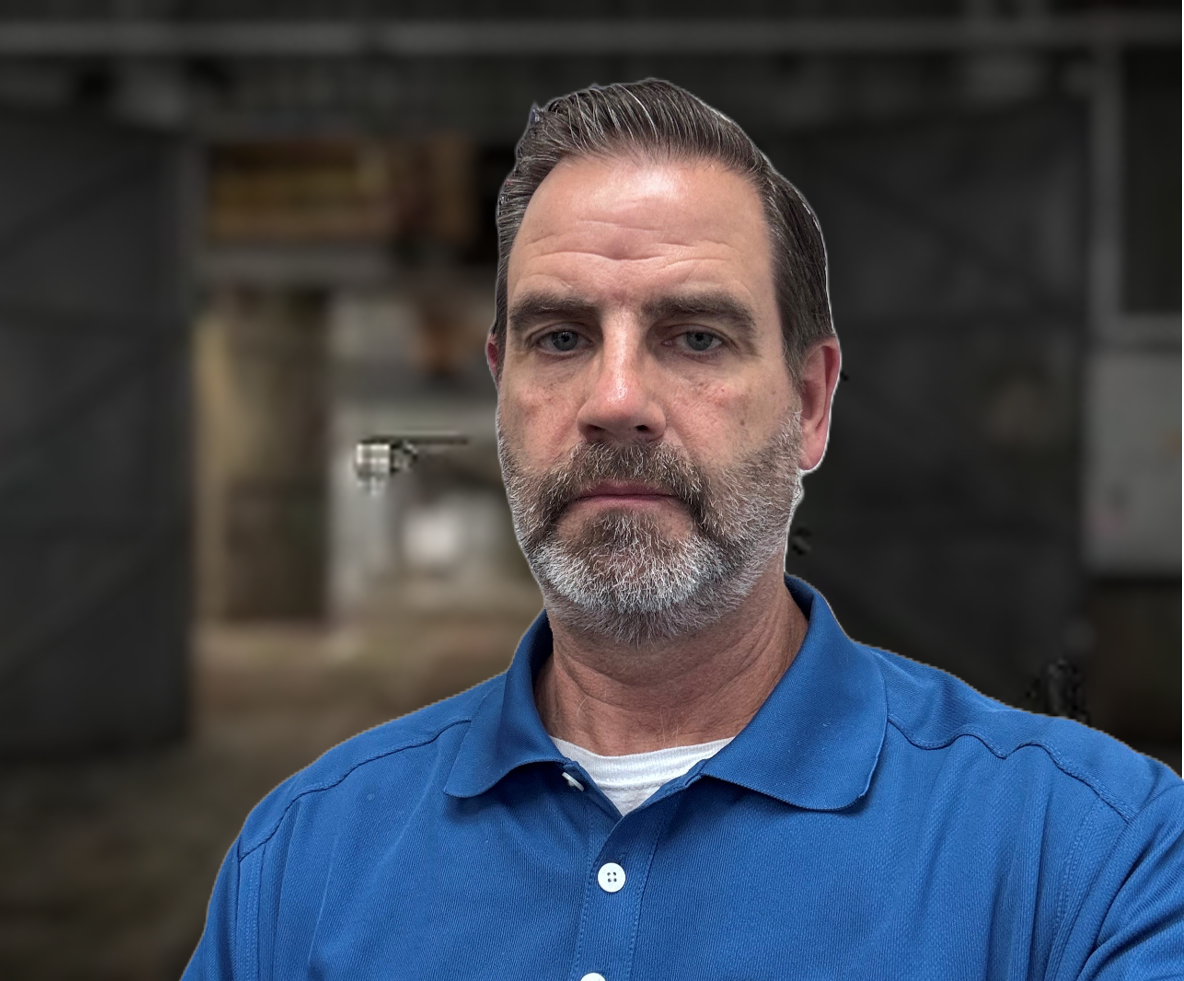
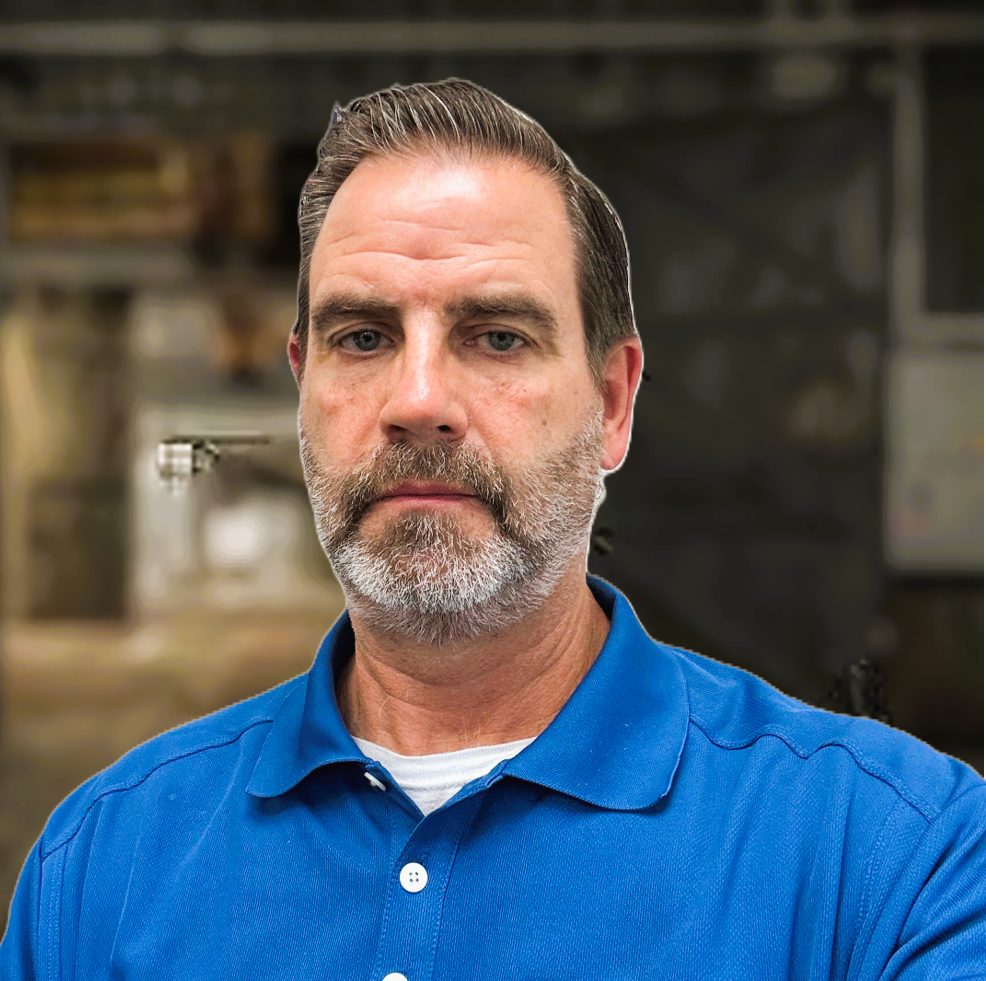
Cindy&Me content and styling

diff --git a/views/project605.html b/views/project605.html
@@ -6,19 +6,55 @@ permalink: /project605/
 
 
 
-     <div class="container">
+    <style>
+      /* Shrink logos on small screens */
+      @media (max-width: 767.98px) {
+        .project-logo {
+          width: 90px !important;
+        }
+
+        /* Remove absolute positioning on small screens */
+        .logo-left,
+        .logo-right {
+          position: static !important;
+          margin: 0.5rem 0;
+        }
+      }
+    </style>
+
+    <div class="container">
       <div class="row jumbotron py-1" style="margin-top: 100px; margin-bottom: 0;">
-       <div class="col-12">
-        <div class="d-flex align-items-center justify-content-start" style="gap: 1rem;">
-         <img alt="Project605 Logo" src="/images/logos/Logo_Project605.png" style="width: 150px; height: auto; margin-bottom: 12px;"/>
-         <h2 class="mb-0" style="margin-left: 10px;">
-          My Workshop and Other Stuff
-         </h2>
+        <div class="col-12">
+          <div class="d-flex flex-column flex-md-row align-items-center justify-content-center text-center position-relative" style="min-height: 100px;">
+
+            <!-- Left Logo -->
+            <div class="logo-left position-absolute" style="left: 1rem;">
+              <img src="/images/logos/project605-logo-outline.png" alt="Project605 Logo" class="project-logo" style="width: 150px; height: auto;" />
+            </div>
+
+            <!-- Center Title -->
+            <div>
+              <h2 class="mb-0" style="font-family: Comfortaa, sans-serif;">
+                My Workshop and Other Stuff
+              </h2>
+            </div>
+
+            <!-- Right Logo -->
+            <div class="logo-right position-absolute" style="right: 1rem;">
+              <img src="/images/logos/project605-logo-solid.png" alt="Project605 Logo" class="project-logo" style="width: 150px; height: auto;" />
+            </div>
+
+          </div>
+
+          <hr class="adventure-hr-bottom my-0" />
         </div>
-        <hr class="adventure-hr-bottom my-0"/>
-       </div>
       </div>
-     </div>
+    </div>
+
+
+
+
+
      <!--MY PROJECTS-->
      <div class="container mt-5">
       <div class="container project-row">
@@ -37,6 +73,7 @@ permalink: /project605/
            <div class="slider-arrow right" data-direction="right" data-target="1">
             &rsaquo;
            </div>
+           
            <div class="thumbnail-track">
             <img alt="cribbage-1" class="project-thumbnail selected" data-full="/images/viewProject605/wood/cribbage-1.JPEG" data-target="1" src="/images/viewProject605/wood/cribbage-1.JPEG"/>
             <img alt="cribbage-4" class="project-thumbnail" data-full="/images/viewProject605/wood/cribbage-4.JPG" data-target="1" src="/images/viewProject605/wood/cribbage-4.JPG"/>
@@ -49,6 +86,12 @@ permalink: /project605/
             <img alt="endtable-2" class="project-thumbnail" data-full="/images/viewProject605/wood/endtable-2.jpeg" data-target="1" src="/images/viewProject605/wood/endtable-2.jpeg"/>
             <img alt="endtable-3" class="project-thumbnail" data-full="/images/viewProject605/wood/endtable-3.jpeg" data-target="1" src="/images/viewProject605/wood/endtable-3.jpeg"/>
             <img alt="ant-trail" class="project-thumbnail" data-full="/images/viewProject605/wood/ant-trail.jpg" data-target="1" src="/images/viewProject605/wood/ant-trail.jpg"/>
+            <img alt="ant-trail" class="project-thumbnail" data-full="/images/viewProject605/wood/IMG_3378.JPEG" data-target="1" src="/images/viewProject605/wood/IMG_3378.JPEG"/>
+            <img alt="ant-trail" class="project-thumbnail" data-full="/images/viewProject605/wood/IMG_3379.JPEG" data-target="1" src="/images/viewProject605/wood/IMG_3379.JPEG"/>
+            <img alt="ant-trail" class="project-thumbnail" data-full="/images/viewProject605/wood/IMG_3380.JPEG" data-target="1" src="/images/viewProject605/wood/IMG_3380.JPEG"/>
+            <img alt="ant-trail" class="project-thumbnail" data-full="/images/viewProject605/wood/IMG_3382.JPEG" data-target="1" src="/images/viewProject605/wood/IMG_3382.JPEG"/>
+            <img alt="ant-trail" class="project-thumbnail" data-full="/images/viewProject605/wood/IMG_3383.JPEG" data-target="1" src="/images/viewProject605/wood/IMG_3383.JPEG"/>
+            
            </div>
           </div>
           <div class="project-description">
@@ -72,6 +115,7 @@ permalink: /project605/
            <div class="slider-arrow right" data-direction="right" data-target="2">
             &rsaquo;
            </div>
+           
            <div class="thumbnail-track">
             <img alt="Leather 1" class="project-thumbnail selected" data-full="/images/viewProject605/leather/leather-1.JPEG" data-target="2" src="/images/viewProject605/leather/leather-1.JPEG"/>
             <img alt="Leather 2" class="project-thumbnail" data-full="/images/viewProject605/leather/leather-2.JPEG" data-target="2" src="/images/viewProject605/leather/leather-2.JPEG"/>
@@ -80,6 +124,7 @@ permalink: /project605/
             <img alt="Leather 5" class="project-thumbnail" data-full="/images/viewProject605/leather/leather-5.JPEG" data-target="2" src="/images/viewProject605/leather/leather-5.JPEG"/>
             <img alt="Leather 6" class="project-thumbnail" data-full="/images/viewProject605/leather/leather-6.JPEG" data-target="2" src="/images/viewProject605/leather/leather-6.JPEG"/>
            </div>
+          
           </div>
           <div class="project-description">
            I got into working with leather a few years ago after seeing some work that my nephews did. I started with a couple of easy key chain 
@@ -98,9 +143,11 @@ permalink: /project605/
            <div class="slider-arrow left" data-direction="left" data-target="3">
             &lsaquo;
            </div>
+           
            <div class="slider-arrow right" data-direction="right" data-target="3">
             &rsaquo;
            </div>
+           
            <div class="thumbnail-track">
             <img alt="Garage 1" class="project-thumbnail selected" data-full="/images/viewProject605/garage/garage-1.jpg" data-target="3" src="/images/viewProject605/garage/garage-1.jpg"/>
             <img alt="Garage 2" class="project-thumbnail" data-full="/images/viewProject605/garage/garage-2.JPEG" data-target="3" src="/images/viewProject605/garage/garage-2.JPEG"/>
@@ -108,7 +155,21 @@ permalink: /project605/
             <img alt="Garage 4" class="project-thumbnail" data-full="/images/viewProject605/garage/garage-4.JPEG" data-target="3" src="/images/viewProject605/garage/garage-4.JPEG"/>
             <img alt="Garage 5" class="project-thumbnail" data-full="/images/viewProject605/garage/garage-5.JPEG" data-target="3" src="/images/viewProject605/garage/garage-5.JPEG"/>
             <img alt="Garage 6" class="project-thumbnail" data-full="/images/viewProject605/garage/garage-6.JPEG" data-target="3" src="/images/viewProject605/garage/garage-6.JPEG"/>
-           </div>
+            <img alt="3384" class="project-thumbnail" data-full="/images/viewProject605/garage/IMG_3384.JPEG" data-target="3" src="/images/viewProject605/garage/IMG_3384.JPEG"/> 
+            <img alt="3385" class="project-thumbnail" data-full="/images/viewProject605/garage/IMG_3385.JPEG" data-target="3" src="/images/viewProject605/garage/IMG_3385.JPEG"/>
+            <img alt="3386" class="project-thumbnail" data-full="/images/viewProject605/garage/IMG_3386.JPEG" data-target="3" src="/images/viewProject605/garage/IMG_3386.JPEG"/>
+            <img alt="3387" class="project-thumbnail" data-full="/images/viewProject605/garage/IMG_3387.JPEG" data-target="3" src="/images/viewProject605/garage/IMG_3387.JPEG"/>
+            <img alt="3388" class="project-thumbnail" data-full="/images/viewProject605/garage/IMG_3388.JPEG" data-target="3" src="/images/viewProject605/garage/IMG_3388.JPEG"/>
+            <img alt="3389" class="project-thumbnail" data-full="/images/viewProject605/garage/IMG_3389.JPEG" data-target="3" src="/images/viewProject605/garage/IMG_3389.JPEG"/>
+            <img alt="3390" class="project-thumbnail" data-full="/images/viewProject605/garage/IMG_3390.JPEG" data-target="3" src="/images/viewProject605/garage/IMG_3390.JPEG"/>
+            <img alt="3391" class="project-thumbnail" data-full="/images/viewProject605/garage/IMG_3391.JPEG" data-target="3" src="/images/viewProject605/garage/IMG_3391.JPEG"/>
+            <img alt="3392" class="project-thumbnail" data-full="/images/viewProject605/garage/IMG_3392.JPEG" data-target="3" src="/images/viewProject605/garage/IMG_3392.JPEG"/>
+            <img alt="3393" class="project-thumbnail" data-full="/images/viewProject605/garage/IMG_3393.JPEG" data-target="3" src="/images/viewProject605/garage/IMG_3393.JPEG"/>
+            <img alt="3394" class="project-thumbnail" data-full="/images/viewProject605/garage/IMG_3394.JPEG" data-target="3" src="/images/viewProject605/garage/IMG_3394.JPEG"/>
+            <img alt="3395" class="project-thumbnail" data-full="/images/viewProject605/garage/IMG_3395.JPEG" data-target="3" src="/images/viewProject605/garage/IMG_3395.JPEG"/>
+            <img alt="3396" class="project-thumbnail" data-full="/images/viewProject605/garage/IMG_3395.JPEG" data-target="3" src="/images/viewProject605/garage/IMG_3396.JPEG"/>          
+          </div>
+          
           </div>
           <div class="project-description">
            This is my garage. It is a work in progess and will probably never be completely done. I add things or revise the layout often when 

diff --git a/views/cindyandme.html b/views/cindyandme.html
@@ -5,33 +5,28 @@ permalink: /cindyandme/
 ---
 
 <div class="container">
-  <div class="row jumbotron py-2" style="margin-top: 100px; margin-bottom: 0;">
+  <div class="row jumbotron" style="padding: 0.25rem 0; margin-top: 70px; margin-bottom: 0;">
     <div class="col-12">
-      <span>
-      <h2 class="mb-2">Our Adventures, Cindy & Me
-           <img src="/images/favicons/moose.png" alt="Moose Icon"
-           style="height: 40px; width: 40px; vertical-align:baseline; margin: 0 10px;">
-      </h2>
-      </span>
-      <div class="d-block" style="padding-right: 5rem;">
-        <span style="font-size: 1rem;">
 
+      <div class="position-relative" style="min-height: 60px;">
+        <img src="/images/favicons/moose.png" alt="Moose Icon" class="moose-overlap">
+        <h2 class="mb-0" style="position: relative; z-index: 2; line-height: 1.2;">
+          Our Adventures, Cindy & Me
+        </h2>
+      </div>
+
+      <div class="d-block mt-0 mb-0" style="padding-right: 5rem;">
+        <span style="font-size: 1rem;">
           <a>Cindy & John</a> |
           <a href="mailto:project605@jchleborad.com" class="black-link">Send us an email!</a>
-
-<!--      <a href="tel:+16236965646" class="black-link">John – (623) 696-5646</a> |
-          <a href="mailto:jchleborad@gmail.com" class="black-link">jchleborad@gmail.com</a> &nbsp;|&nbsp;
-
-
-          <a href="tel:+16236965645" class="black-link">Cindy – (623) 696-5645</a> |
-          <a href="mailto:cchleborad@icloud.com" class="black-link">cchleborad@icloud.com</a>
         </span>
       </div>
--->
+
       <hr class="adventure-hr-bottom my-1">
     </div>
   </div>
 </div>
+
 
 <section id="johnandcindy" class="pt-4 pb-4">
   <div class="container-custom rounded p-4 text-center mx-auto">
@@ -74,7 +69,7 @@ permalink: /cindyandme/
 
   <p class="card-text">
     {{ thumb.title }}<br>
-      {% if post.title == "Wedding Day!" or post.title == "They're Engaged!" %}
+      {% if post.title == "Wedding Day!" or post.title == "They're Engaged!" or post.title == "Side x Side Maiden Journey" %}
         {{ post.date | date: "%B %d, %Y" }}
       {% else %}
         {{ post.date | date: "%B %Y" }}

diff --git a/css/site.css b/css/site.css
@@ -141,6 +141,8 @@ a:hover {
 
 .navbar {
     padding: .8rem;
+    z-index: 10;
+    position:relative
 }
 
 .navbar-nav li {
@@ -839,6 +841,24 @@ resume div {
 }
 
 /*CINDYANDME.HTML*/
+
+/* MOOSE SPILL OUT OF BOX */
+.moose-container {
+  position: relative;
+  display: inline-block;
+  z-index: 1;
+}
+
+.moose-overlap {
+  width: 100px;
+  height: auto;
+  position: absolute;
+  top: -75px; /* Adjust this to cut moose mid-body */
+  left: 50%;
+  transform: translateX(-50%);
+  z-index: 0;
+}
+
 .dark-box {
     background-color: #e9ecef;
     color: black;

diff --git a/index.html b/index.html
@@ -47,11 +47,7 @@
             <li class="nav-item">
               <a class="nav-link" href="/nfl-login/">NFL GameDay</a>
             </li>
-<!--
-            <li class="nav-item">
-              <a class="nav-link" href="/views/project605beta.html">Project605_Beta</a>
-            </li>
--->
+
             <li class="nav-item">
               <a class="nav-link" href="/cindyandme/">Cindy & Me</a>
             </li>

diff --git a/_posts/2025-07-05-sxs-payson-az.md b/_posts/2025-07-05-sxs-payson-az.md
@@ -1,0 +1,52 @@
+---
+title: "Side x Side Maiden Journey"
+date: 2025-07-05
+
+thumbnail:
+  url: /images/viewCindyandMe/SxSAdventures/sxs-thumb.JPEG
+  title: "Pyeatt Draw OHV Trail"
+
+images:
+- url: /images/viewCindyandMe/SxSAdventures/Payson_Pyeatt-Trail/IMG_3367.JPEG
+- url: /images/viewCindyandMe/SxSAdventures/Payson_Pyeatt-Trail/IMG_3369.JPEG
+- url: /images/viewCindyandMe/SxSAdventures/Payson_Pyeatt-Trail/IMG_3371.JPEG
+- url: /images/viewCindyandMe/SxSAdventures/Payson_Pyeatt-Trail/IMG_3372.JPEG
+- url: /images/viewCindyandMe/SxSAdventures/Payson_Pyeatt-Trail/IMG_3373.JPEG
+- url: /images/viewCindyandMe/SxSAdventures/Payson_Pyeatt-Trail/IMG_3374.JPEG
+- url: /images/viewCindyandMe/SxSAdventures/Payson_Pyeatt-Trail/IMG_3375.JPEG
+- url: /images/viewCindyandMe/SxSAdventures/Payson_Pyeatt-Trail/IMG_3376.JPEG
+- url: /images/viewCindyandMe/SxSAdventures/Payson_Pyeatt-Trail/IMG_3377.JPEG
+- url: /images/viewCindyandMe/SxSAdventures/Payson_Pyeatt-Trail/IMG_2579.JPEG
+- url: /images/viewCindyandMe/SxSAdventures/Payson_Pyeatt-Trail/IMG_3370.JPEG
+- url: /images/viewCindyandMe/SxSAdventures/Payson_Pyeatt-Trail/IMG_2580.JPEG
+- url: /images/viewCindyandMe/SxSAdventures/Payson_Pyeatt-Trail/IMG_2581.JPEG
+- url: /images/viewCindyandMe/SxSAdventures/Payson_Pyeatt-Trail/IMG_2582.JPEG
+- url: /images/viewCindyandMe/SxSAdventures/Payson_Pyeatt-Trail/IMG_2583.JPEG
+- url: /images/viewCindyandMe/SxSAdventures/Payson_Pyeatt-Trail/IMG_2585.JPEG
+- url: /images/viewCindyandMe/SxSAdventures/Payson_Pyeatt-Trail/IMG_2586.JPEG
+- url: /images/viewCindyandMe/SxSAdventures/Payson_Pyeatt-Trail/IMG_2587.JPEG
+- url: /images/viewCindyandMe/SxSAdventures/Payson_Pyeatt-Trail/IMG_2588.JPEG
+- url: /images/viewCindyandMe/SxSAdventures/Payson_Pyeatt-Trail/IMG_2591.JPEG
+- url: /images/viewCindyandMe/SxSAdventures/Payson_Pyeatt-Trail/IMG_2592.JPEG
+- url: /images/viewCindyandMe/SxSAdventures/Payson_Pyeatt-Trail/IMG_2594.JPEG
+- url: /images/viewCindyandMe/SxSAdventures/Payson_Pyeatt-Trail/IMG_2595.JPEG
+- url: /images/viewCindyandMe/SxSAdventures/Payson_Pyeatt-Trail/IMG_2596.JPEG
+
+---
+
+<p>
+    In July of 2024 we took a leap and purchased a 2021 Wildcat Arctic Cat Trail SxS with the intent of taking in out on trails around Arizona and exploring our great state.  We rented one a couple of years prior and really had a great time, so we started looking to buy one so we could go wherever whenever.  We just never found the time, life got in the way and we have no space to store a trailer, so we rely on rentals, but they are hard to come by when you have the time.  
+</p>
+
+<p>
+	Fast forward to July of 2025, and this is the first time we had a chance to take it out.  All the stars aligned; we had the time, a rental was available, and the weather was perfect!
+</p>
+
+<p>
+	We decided on the Pyeatt OHV Trail just outside of Payson.  It is about 25 miles, is moderate in difficulty, and gave us an opportunity to go be amongst the trees and streams.  It was a fun ride.  We stopped for a few pictures, dipped our feet in the cool stream, had a small picnic lunch and overall had a really good time.
+<p>
+	Along the way, we stumbled upon a winery called Below The Rim Meadery.  It was tucked away in a place that felt so remote you wondered how they managed to stay open.  The people were very nice, the food was great and it was a perfect way to spend some time just listening to the wind through the trees.  Highly recommended if you are ever in the area.
+</p>
+	
+<p> Cindy loves the mountains, the smell of the pine trees and listening to the wind rustling through the trees.  I really enjoy sitting by a mountain stream and watching the water cascade over the rocks and obstacles.  This was a great trip for the first adventure out with our side x side.
+</p>

diff --git a/_posts/2025-06-07-wedding-day.md b/_posts/2025-06-07-wedding-day.md
@@ -48,5 +48,41 @@ images:
 
 ---
 <p>
-More to come!
+My toast to Tyler & Kirsten...
+</p>
+
+<p>
+Tyler recently wrote a note in my birthday card. It was one of those notes that remind you of how much that person means to you. As I stand here watching him begin this next chapter with Kirsten, I can’t help but hear those words echo in my heart.
+</p>
+
+<p>
+He told me he felt lucky to have me as a father—but the truth is, I’ve always felt lucky to have him as a son.
+</p>
+
+<p>
+Tyler said that as he’s gotten older and life has grown more complicated, he’s become more grateful and proud—but the truth is, it is me who could not be more grateful and proud.
+</p>
+
+<p>
+Tyler called me his moral compass—but as I look back, I see him as a model of a true sense of right and wrong and how to treat people.
+</p>
+
+<p>
+These are things I never set out to be or do as life went on and I became a husband and father.  But reading those words from him brings me joy and is one of the greatest honors of my life.
+</p>
+
+<p>
+To me, it is the greatest reward as a parent, seeing the kind of person your child has become as they have grown.
+</p>
+
+<p>
+And now, I see him becoming that compass. I see it in how he treats others, how he listens, how he carries himself, the relationships he has developed.  And, most of all, in how he loves Kirsten.
+</p>
+
+<p>
+Tyler & Kirsten,— watching the two of you together overwhelms me with pride and joy. There is an ease between you, there is joy and respect.  You are both so humble and full of heart. I have no doubt that the love you share will be a beacon for others—just like your words have been for me.
+</p>
+
+<p>
+May your love always feel like home. May your life be filled with laughter, your hearts with kindness, and your days filled with the kind of joy that brought all of us here to celebrate you.
 </p>
